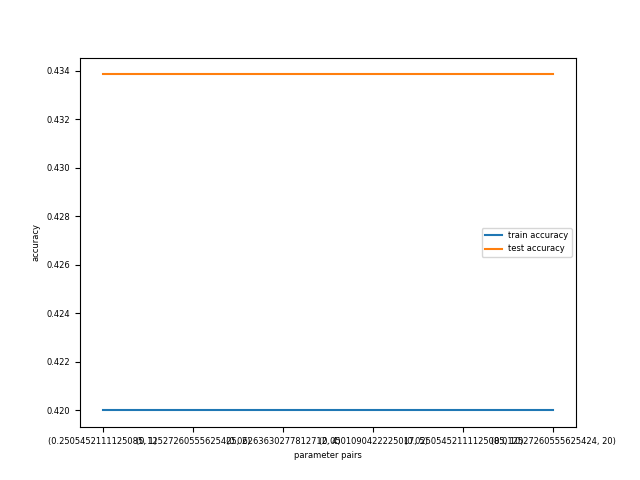
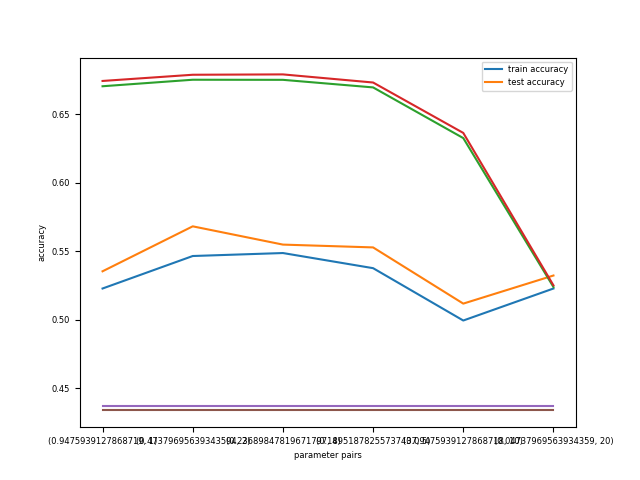
max iter imposed on SVM so it will stop, figure clearing works -- candidate for final push

diff --git a/models.py b/models.py
@@ -2,8 +2,9 @@
 holds our models (e.g., imagenet, cnns, etc, to be imported into experiments.py)
 """
 import warnings
-warnings.filterwarnings("ignore", category=DeprecationWarning)
-'''remove annoying DeprecationWarning from sklearn AdaBoostClassifier'''
+#warnings.filterwarnings("ignore", category=DeprecationWarning) # adaboost
+#warnings.filterwarnings("ignore", category=ConvergenceWarning) # svc
+warnings.filterwarnings("ignore")
 
 from scipy import stats
 from sklearn.linear_model import LogisticRegression
@@ -44,12 +45,12 @@ def SVM():
 
     # hyperparameters to search for randomized cross validation
     settings = {
-        'clf__tol': stats.uniform(10e-5, 10e-1),
+        'clf__tol': stats.uniform(10e-3, 10e-1),
         'clf__C': stats.uniform(10e-3, 1)
     }
 
     # model we will train in our pipeline
-    clf = SVC(kernel='linear', max_iter=-1)
+    clf = SVC(kernel='linear', max_iter=5e3)
 
     # pipeline runs preprocessing and model during every CV loop
     pipe = Pipeline([

diff --git a/experiments.py b/experiments.py
@@ -21,6 +21,7 @@ def kfold_train_loop(data, model):
     selection, which is expected to be performed inside the submitted model as
     part of the pipeline.
     """
+    t1 = time.time()
     model.fit(data['X']['train'], data['y']['train'])
     y_train_pred = model.predict(data['X']['train'])   # train scores
     y_test_pred =  model.predict(data['X']['test'])    # test scores
@@ -28,8 +29,9 @@ def kfold_train_loop(data, model):
     model_train_acc = accuracy_score(y_train_pred, data['y']['train'])
     model_test_acc = accuracy_score(y_test_pred, data['y']['test'])
 
-    LOGGER.info('train/test accuracy after cross-validation: {}/{}'.format(
-        model_train_acc, model_test_acc))
+    t2 = time.time()
+    LOGGER.info('train/test accuracy after cross-val in {} sec: {}/{}'.format(
+        t2-t1, model_train_acc, model_test_acc))
 
     results = {'train': model_train_acc, 'test':  model_test_acc}
 

diff --git a/utils.py b/utils.py
@@ -34,6 +34,7 @@ def plot_results(train_acc, test_acc, param_pairs, exp_name):
     plt.xlabel('parameter pairs')
     plt.ylabel('accuracy')
     plt.savefig('./figures/{}.png'.format(exp_name))
+    plt.clf()
 
 
 def _relabel_wine(targets, num_classes=5):
